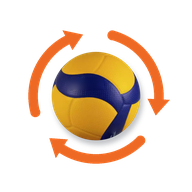
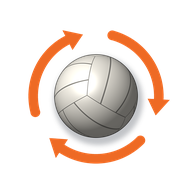
Wersja 1.36: ikona z klasyczną białą piłką
Nowa ikona: własny rysunek klasycznej, białej piłki siatkowej
(18 paneli w potrójnych pasach, cieniowanie, szwy) w pomarańczowych
strzałkach rotacji. Zastępuje piłkę ze zdjęcia produktu.
Przezroczyste tło na komputer, grafitowe na telefony.

Changed region(s): [[0.25, 0.25, 0.75, 0.75]]

diff --git a/index.html b/index.html
@@ -11,9 +11,9 @@
 <title>Rotacje w siatkówce</title>
 <meta name="author" content="Wojciech Marynowski">
 <meta name="description" content="Interaktywne boisko do sprawdzania rotacji i błędów ustawienia w siatkówce według przepisów FIVB 2025–2028.">
-<link rel="manifest" href="manifest.webmanifest?v=5">
-<link rel="icon" type="image/png" sizes="32x32" href="icons/favicon-32.png?v=5">
-<link rel="apple-touch-icon" href="icons/apple-touch-icon.png?v=5">
+<link rel="manifest" href="manifest.webmanifest?v=6">
+<link rel="icon" type="image/png" sizes="32x32" href="icons/favicon-32.png?v=6">
+<link rel="apple-touch-icon" href="icons/apple-touch-icon.png?v=6">
 <link rel="preconnect" href="https://fonts.googleapis.com">
 <link rel="preconnect" href="https://fonts.gstatic.com" crossorigin>
 <link rel="stylesheet" href="https://fonts.googleapis.com/css2?family=Barlow+Condensed:wght@500;600;700&family=Barlow:wght@400;500;600&display=swap">
@@ -583,7 +583,7 @@ html { touch-action: pan-x pan-y; }
 <script>
 (function () {
   // Wersja aplikacji: przy każdym wydaniu podbij numer i datę oraz CACHE w sw.js (rotacje-v<numer po kropce>)
-  const APP_VERSION = "1.35";
+  const APP_VERSION = "1.36";
   const APP_DATE = "18.10.2026";
   document.getElementById("app-version").textContent = `Wersja ${APP_VERSION} · ${APP_DATE}`;
 

diff --git a/sw.js b/sw.js
@@ -1,17 +1,17 @@
 // Działanie offline: aplikacja i czcionki trafiają do pamięci podręcznej telefonu.
 // Strona jest pobierana najpierw z sieci (żeby aktualizacje docierały od razu), a bez internetu z pamięci.
 // Po zmianie listy plików lub ikon podbij numer wersji.
-const CACHE = "rotacje-v35";
+const CACHE = "rotacje-v36";
 const APP_FILES = [
   "./",
   "./index.html",
-  "./manifest.webmanifest?v=5",
-  "./icons/icon-192.png?v=5",
-  "./icons/icon-512.png?v=5",
-  "./icons/icon-maskable-192.png?v=5",
-  "./icons/icon-maskable-512.png?v=5",
-  "./icons/apple-touch-icon.png?v=5",
-  "./icons/favicon-32.png?v=5"
+  "./manifest.webmanifest?v=6",
+  "./icons/icon-192.png?v=6",
+  "./icons/icon-512.png?v=6",
+  "./icons/icon-maskable-192.png?v=6",
+  "./icons/icon-maskable-512.png?v=6",
+  "./icons/apple-touch-icon.png?v=6",
+  "./icons/favicon-32.png?v=6"
 ];
 
 self.addEventListener("install", (event) => {
